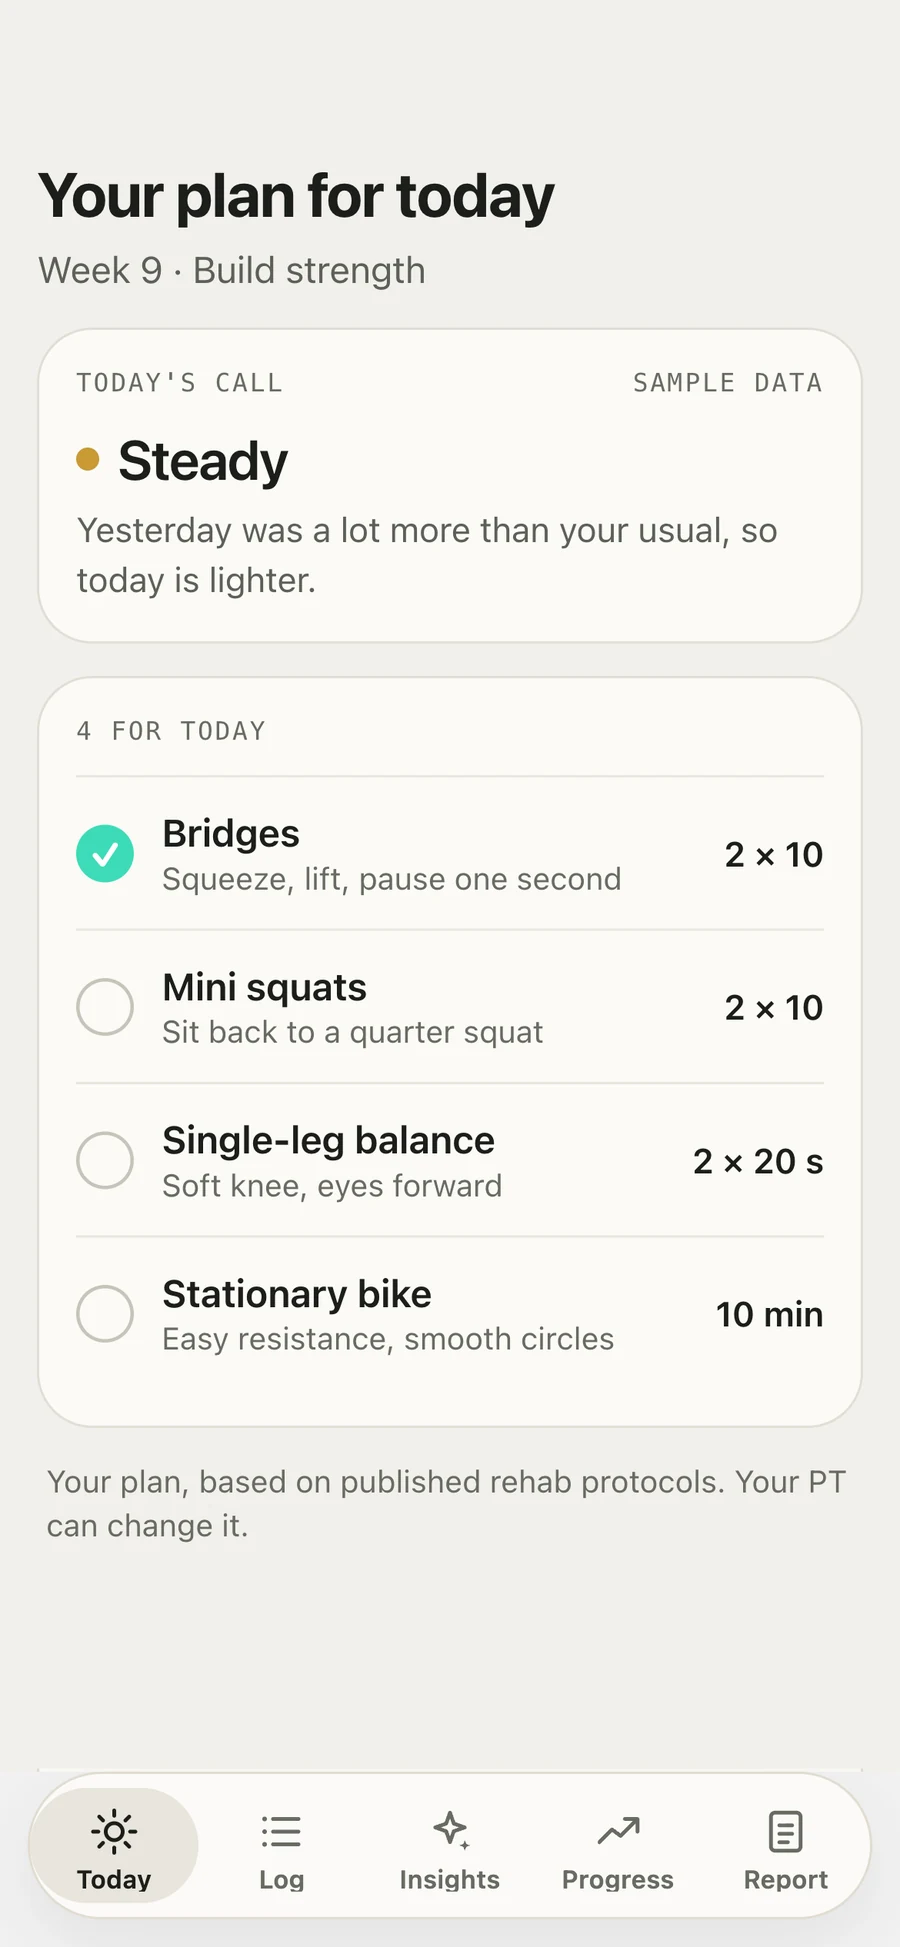
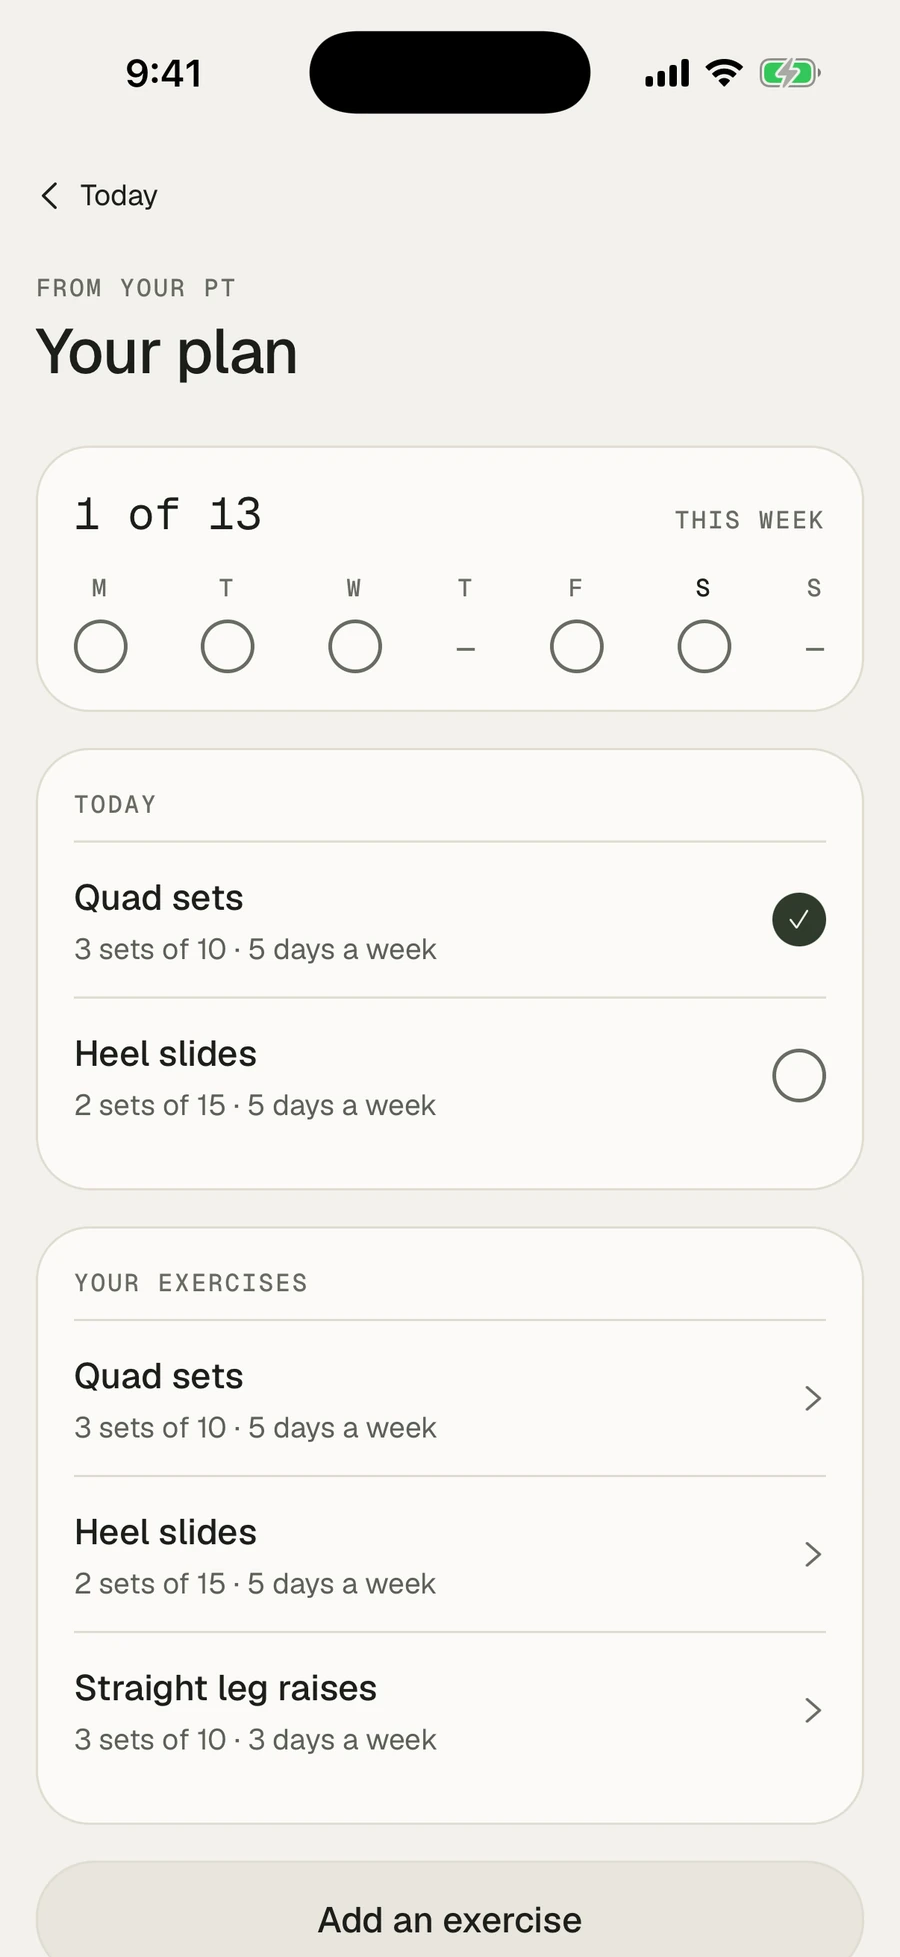
feat(site): soft stops at the phone captions and new app screens
Fast scrolling skipped past the phone captions. Each caption is now a
scroll stop: CSS proximity snap settles nearby scrolls, and a small wheel
guard holds one fast motion at the next stop for up to a second. No
timers and no scroll lock; scrolling up and elsewhere is unchanged.

The phone now shows the new Home, Daily plan and Send to your PT
screens, with the share screen under the PT caption. The Learn page
phone cycles the same three.

diff --git a/kinn/site/public/flow.js b/kinn/site/public/flow.js
@@ -18,7 +18,7 @@
   const sec = document.getElementById('top'), cv = document.getElementById('flowCv'), ctx = cv.getContext('2d');
   const off = document.createElement('canvas'), octx = off.getContext('2d');
   const veil = sec.querySelector('.veil'), deg = document.getElementById('fDeg'), bar = document.getElementById('fBar'), degWrap = document.getElementById('fDegWrap');
-  const device = document.getElementById('device'), scrToday = document.getElementById('scrToday'), scrPlan = document.getElementById('scrPlan');
+  const device = document.getElementById('device'), scrPlan = document.getElementById('scrPlan'), scrShare = document.getElementById('scrShare');
   const smooth = x => { x = cl(x); return x * x * (3 - 2 * x); };
 
   /* the film strips */
@@ -41,7 +41,31 @@
   const from = {}; let SPAN = 0; for (const [n, vh] of shots) { from[n] = [SPAN, vh]; SPAN += vh; }
   sec.style.height = SPAN + 100 + 'vh';
   const mark = s => { const [n, t] = s.split(' '); return from[n][0] + parseFloat(t) * from[n][1]; };   // 'shot t'
+  /* soft stops: if a scroll ends near one of these, the page settles on it, and a quick flick stops there instead of skipping past.
+     Nothing is timed or locked; the next scroll carries on. Each is a point on the film, in the same 'shot t' terms as the captions */
+  const PAUSES = ['signal .72', 'phone .22', 'phone .6', 'phone .9'];
   const words = [...document.querySelectorAll('#words [data-a]')].map(el => ({el, a: mark(el.dataset.a), b: mark(el.dataset.b)}));
+  /* a film position in vh is also how far into the section the page has scrolled, so each stop sits at that depth */
+  PAUSES.forEach(at => { const stop = document.createElement('i'); stop.className = 'pause'; stop.setAttribute('aria-hidden', 'true'); stop.style.top = mark(at) + 'vh'; sec.append(stop); });
+  /* the CSS stops above cover touch. A wheel or trackpad sends a stream of events, so: when one motion crosses a stop going down,
+     rest on it and let the rest of that motion go. A new motion carries on: a gap in the stream, a swipe that speeds up again,
+     or HOLD_MAX_MS at the most, so it never feels stuck */
+  const GESTURE_GAP_MS = 160, SPEED_UP = 1.4, SPEED_UP_MIN = 6, HOLD_MAX_MS = 1100, PAUSE_REACH = 2;
+  const stopsPx = () => [...sec.querySelectorAll('.pause')].map(el => el.getBoundingClientRect().top + scrollY);
+  let heldAt = 0, held = false, lastWheel = 0, lastDelta = 0;
+  addEventListener('wheel', e => {
+    const now = performance.now(), dy = e.deltaY * (e.deltaMode === 1 ? 16 : e.deltaMode === 2 ? innerHeight : 1);
+    const newMotion = now - lastWheel > GESTURE_GAP_MS || Math.abs(dy) > Math.abs(lastDelta) * SPEED_UP + SPEED_UP_MIN;
+    lastWheel = now; lastDelta = dy;
+    if (held) {
+      if (!newMotion && now - heldAt < HOLD_MAX_MS) { e.preventDefault(); return; }
+      held = false;
+    }
+    if (reduce || dy <= 0 || e.ctrlKey) return;
+    const stop = stopsPx().find(s => s > scrollY + PAUSE_REACH && s <= scrollY + dy);
+    if (stop === undefined) return;
+    e.preventDefault(); scrollTo({top: stop}); held = true; heldAt = now;
+  }, {passive: false});
 
   /* loading. Every shot gets a rough pass first, every 8th frame, so whatever the reader scrolls to is already there.
      Then the frames nearest the reader fill in. Phones and data-saver skip every second frame */
@@ -232,10 +256,11 @@
   const bendZ = () => Math.min(1, W * BEND_FILL / (BEND_TAPE_W * S));
   const bendView = t => { const k = smooth(t / BEND_OPENS_BY); return {z: 1 + (bendZ() - 1) * k, px: STAGE_W / 2 + (BEND_PX - STAGE_W / 2) * k}; };
   const wrapView = t => { const k = smooth(t); return {z: bendZ() + (1 - bendZ()) * k, px: BEND_PX + (TAPE_X - BEND_PX) * k}; };
-  function phone(rise, a, plan) {
+  /* the screens are stacked: Today underneath, the plan over it, then sending the week to a PT */
+  function phone(rise, a, plan, share) {
     const on = a > .001;
     device.style.visibility = on ? 'visible' : 'hidden'; if (!on) return;
-    device.style.opacity = a.toFixed(3); device.style.setProperty('--rise', (rise * innerHeight).toFixed(1) + 'px'); scrToday.style.opacity = cl(1 - plan * 2).toFixed(3); scrPlan.style.opacity = cl(plan * 2 - 1).toFixed(3);
+    device.style.opacity = a.toFixed(3); device.style.setProperty('--rise', (rise * innerHeight).toFixed(1) + 'px'); scrPlan.style.opacity = plan.toFixed(3); scrShare.style.opacity = share.toFixed(3);
   }
 
   /* the end of the film: the app's tick dial around the words. It lights clockwise to 9 o'clock with the scroll, as the logo's arc does.
@@ -281,7 +306,7 @@
     const ox = originX(cx);
     shiftX = shiftY = 0;
     ctx.globalAlpha = 1; ctx.fillStyle = BG; ctx.fillRect(0, 0, W, H);
-    let phoneRise = 1, phoneA = 0, plan = 0;
+    let phoneRise = 1, phoneA = 0, plan = 0, share = 0;
     switch (name) {
       case 'hero': {
         /* at rest the coin follows the cursor, with a little depth. Once it leaves, the film takes over from the same pose */
@@ -307,17 +332,17 @@
         break;
       }
       case 'phone': {
-        phoneRise = 0; phoneA = 1; plan = smooth((t - .41) / .04);
+        phoneRise = 0; phoneA = 1; plan = smooth((t - .41) / .04); share = smooth((t - .74) / .04);
         const f = photoAside(1, ox);
         if (n) { drawAside(f, 1 - smooth(t / .1)); link(1, 1 - smooth(t / .08), ox, f.coin); }
         else { drawAside(f); link(1, 1 - smooth((t - .25) / .2), ox, f.coin); }
         break;
       }
-      case 'close': if (!n) drawAside(photoAside(1, ox), 1 - smooth(t)); phoneRise = -.02 * t; phoneA = 1 - smooth(t); plan = 1; break;
+      case 'close': if (!n) drawAside(photoAside(1, ox), 1 - smooth(t)); phoneRise = -.02 * t; phoneA = 1 - smooth(t); plan = 1; share = 1; break;
       case 'join': break;
     }
     dial(smooth((pos - dialOpens()) / (dialOpen() - dialOpens())), performance.now());
-    phone(phoneRise, phoneA, plan);
+    phone(phoneRise, phoneA, plan, share);
     words.forEach(w => w.el.classList.toggle('on', pos >= w.a && pos < w.b));
     const reading = pos >= mark('bend .03') && pos < mark('wrap .7');
     degWrap.classList.toggle('on', reading);

diff --git a/kinn/site/public/preorder/learn.css b/kinn/site/public/preorder/learn.css
@@ -57,8 +57,11 @@
 .phone{justify-self:center;height:min(88svh,820px);aspect-ratio:390/844;padding:9px;border-radius:54px;background:#0a0b0b;box-shadow:0 0 0 1.5px #55595a,0 0 0 3px #1c1e1f,0 50px 120px rgba(0,0,0,.6)}
 .phone-screen{position:relative;width:100%;height:100%;border-radius:45px;overflow:hidden;background:#f2f1ec}
 .phone-screen img{position:absolute;inset:0;width:100%;height:100%;object-fit:cover}
-.phone-screen .second{animation:swap 9s ease-in-out infinite}
-@keyframes swap{0%,42%{opacity:0}50%,92%{opacity:1}100%{opacity:0}}
+.phone-screen .second{animation:plan 13.5s ease-in-out infinite}
+.phone-screen .third{animation:share 13.5s ease-in-out infinite}
+/* Today, then the plan, then sending the week to a PT. Each new screen covers the last before it leaves, so Today never shows through */
+@keyframes plan{0%,28%{opacity:0}34%,72%{opacity:1}74%,100%{opacity:0}}
+@keyframes share{0%,62%{opacity:0}68%,93%{opacity:1}100%{opacity:0}}
 .l-app-copy h2{font-size:clamp(2.4rem,4.8vw,4.6rem)}
 .l-app-copy p{margin-top:22px}
 
@@ -84,6 +87,6 @@
 }
 @media (prefers-reduced-motion:reduce){
   .load-art b,.pain-day,.pain-before,.pain-tap,.warn-art line,.g-label,.warn-center{transition:none}
-  .pain-tap::after,.phone-screen .second{animation:none}
-  .phone-screen .second{opacity:0}
+  .pain-tap::after,.phone-screen .second,.phone-screen .third{animation:none}
+  .phone-screen .second,.phone-screen .third{opacity:0}
 }

diff --git a/kinn/site/public/index.html b/kinn/site/public/index.html
@@ -66,7 +66,7 @@
       </div>
     </div>
     <div class="deg gut" id="fDegWrap" aria-hidden="true"><strong id="fDeg">0°</strong><div class="gauge"><i id="fBar"></i></div><span>Knee bend · live from the tape</span></div>
-    <div class="device" id="device"><div class="screen"><img id="scrToday" src="/flow/screen/today.webp?v=10" alt="RECO app, Today: 70% recovery and today's call, Steady. Sample data." width="900" height="1948" loading="lazy"><img id="scrPlan" src="/flow/screen/plan.webp?v=10" alt="RECO app, your plan for today: bridges, mini squats, single-leg balance and a stationary bike. Sample data." width="900" height="1948" loading="lazy"></div></div>
+    <div class="device" id="device"><div class="screen"><img id="scrToday" src="/flow/screen/today.webp?v=11" alt="RECO app, Today: 75 recovery and today's call, Mixed. Sample data." width="900" height="1957" loading="lazy"><img id="scrPlan" src="/flow/screen/plan.webp?v=11" alt="RECO app, your plan from your PT: quad sets and heel slides, with this week's sessions. Sample data." width="900" height="1957" loading="lazy"><img id="scrShare" src="/flow/screen/share.webp?v=11" alt="RECO app, sending your week to your PT as a PDF. Sample data." width="900" height="1957" loading="lazy"></div></div>
   </div>
 </section>
 

diff --git a/kinn/site/public/preorder/learn.html b/kinn/site/public/preorder/learn.html
@@ -72,7 +72,7 @@
   </section>
 
   <section class="l-app" id="app">
-    <div class="phone" aria-hidden="true"><div class="phone-screen"><img src="/flow/screen/today.webp?v=10" alt="" width="900" height="1948" loading="lazy"><img class="second" src="/flow/screen/plan.webp?v=10" alt="" width="900" height="1948" loading="lazy"></div></div>
+    <div class="phone" aria-hidden="true"><div class="phone-screen"><img src="/flow/screen/today.webp?v=11" alt="" width="900" height="1957" loading="lazy"><img class="second" src="/flow/screen/plan.webp?v=11" alt="" width="900" height="1957" loading="lazy"><img class="third" src="/flow/screen/share.webp?v=11" alt="" width="900" height="1957" loading="lazy"></div></div>
     <div class="l-app-copy gut">
       <h2>Your recovery data,<br>in your hand.</h2>
       <p>Your recovery, at a glance, with one clear read on how you're trending.</p>

diff --git a/kinn/site/public/flow.css b/kinn/site/public/flow.css
@@ -1,4 +1,7 @@
 /* RECO home: one pinned film. The page holds still and scrolling only moves the film forward. */
+/* proximity: the page only settles on a stop when a scroll ends near it, so everywhere else scrolls freely */
+html{scroll-snap-type:y proximity}
+.pause{position:absolute;left:0;width:1px;height:1px;pointer-events:none;scroll-snap-align:start;scroll-snap-stop:always}
 .flow{position:relative;height:1000vh;background:var(--bg)}
 .flow .pin{position:sticky;top:0;height:100vh;height:100svh;overflow:hidden;background:var(--bg)}
 #flowCv{position:absolute;inset:0;width:100%;height:100%}

diff --git a/kinn/site/README.md b/kinn/site/README.md
@@ -78,7 +78,7 @@ Without `DATABASE_URL`, signups go to `data/waitlist.json`. That's for local tes
 - `public/learn/`: the built "How Kinn learns" page (source in `../learn/`)
 - `public/progress/`: the “How it works” page: a recorded demo (`video/reco-demo.{mp4,webm}`, cut with ffmpeg from a simulator recording) and a pinned walkthrough over `img/app-*.webp`, simulator screenshots of the iOS app in `../app/apps/mobile`
 - `public/try/`: the app itself, built for the web with `npx expo export --platform web` from `../app/apps/mobile` (base path `/try`). Rebuild it after app changes and copy the output here. On the web the tape tag on Today opens `/tape`, which pairs a RECO tape over Web Bluetooth (Chrome/Edge) or runs the simulated tape.
-- `public/index.html`, `home.css`, `home.js`, `flow.css`, `flow.js`: the home page. `flow.*` is one pinned film on one canvas, in order: the coin, which follows the cursor (`flow/coin/`, then `flow/intro/`), the tape bending with the angle (`flow/flex/`, which starts from the coin film's last frame), the tape relaxing from the peak of the bend onto the knee (`flow/wrap/`, which starts from the bend's last frame), morphing into the photo's tape (`flow/settle/`), the leg revealed around it (`flow/hero.webp`, `flow/tape.webp`), the photo moving aside as the signal, drawn live, reaches the phone (`flow/screen/`, a real image in a CSS frame), and the waitlist inside the app's tick dial, drawn live. The reader's scroll drives all of it, through one soft filter so its speed never jumps. To change the pacing, edit the `vh` spans of `shots` in `flow.js`. `home.*` holds the waitlist form.
+- `public/index.html`, `home.css`, `home.js`, `flow.css`, `flow.js`: the home page. `flow.*` is one pinned film on one canvas, in order: the coin, which follows the cursor (`flow/coin/`, then `flow/intro/`), the tape bending with the angle (`flow/flex/`, which starts from the coin film's last frame), the tape relaxing from the peak of the bend onto the knee (`flow/wrap/`, which starts from the bend's last frame), morphing into the photo's tape (`flow/settle/`), the leg revealed around it (`flow/hero.webp`, `flow/tape.webp`), the photo moving aside as the signal, drawn live, reaches the phone (`flow/screen/`, a real image in a CSS frame), and the waitlist inside the app's tick dial, drawn live. The reader's scroll drives all of it, through one soft filter so its speed never jumps. To change the pacing, edit the `vh` spans of `shots` in `flow.js`. `PAUSES` in `flow.js` are soft stops at the phone captions: a scroll that ends near one settles on it, and one wheel or trackpad motion that crosses one rests there; the next motion carries on. The phone screens in `flow/screen/` are exports of the app's own screens (`kinn/docs/screens/` in the app work), resized to 900 wide. `home.*` holds the waitlist form.
 - `public/flow/`: frames and stills for that film, all rendered from `../blender/v7/build_reco_v7.py`, the same scene as `film7/`, so the device never changes appearance. `RECO_POSES=<public>/flow/coin/poses.json blender ... cursor` writes where the coin sits in each angle, which keeps its logo sharp between angles. `flow_post.py` writes the site images, then `flow_morph.py` builds `flow/settle/` from them, flattened onto the page colour (`#0d1212`) because a transparency layer makes them about four times larger. If you change `--bg`, change `PAGE_BG` there and re-run it. A Blender render starves the browser of GPU, so judge smoothness only when none is running. Frames are cached for a day, so when you replace frames under the same names, bump `V` in `flow.js` and the `?v=` in `index.html`. The plan screen (`../blender/v7/screen_plan.png`) is a design in the app's style with sample data, not a screen the app has yet.
 - `preorder.js`, `public/preorder.js`, `public/preorder/`: the $49 non-binding preorder through Stripe Checkout. `/preorder` is the intro, which leads to `/preorder/reserve` (the decision) or `/preorder/learn` (the depth). `img/lineup.webp` comes from `blender ... -- lineup`, the same scene as the film, flattened onto the ceramic page colour. It stays off, and the site offers only the waitlist, until the env vars listed at the top of `preorder.js` are set. The price, ship window and 12-month refund promise are constants there too; the page and terms read them from `/api/preorder/config`, so they change in one place. Point a Stripe webhook at `/api/stripe/webhook` with `checkout.session.completed`, `checkout.session.async_payment_succeeded` and `charge.refunded`; that webhook is what records an order. Orders download from `/admin/preorders.csv`, with each order's `refund_by` date, the promise we have to keep. Run `npm test` after changing any of it.
 - `public/knee-recovery/`: an old copy of the knee recovery guide. `/knee-recovery` now 301-redirects to https://recorecovery.info (repo `reco-knee-guide`) so Google sees one version.
